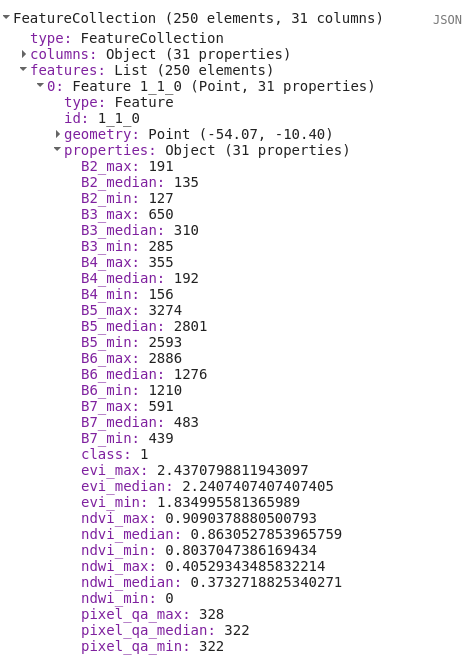
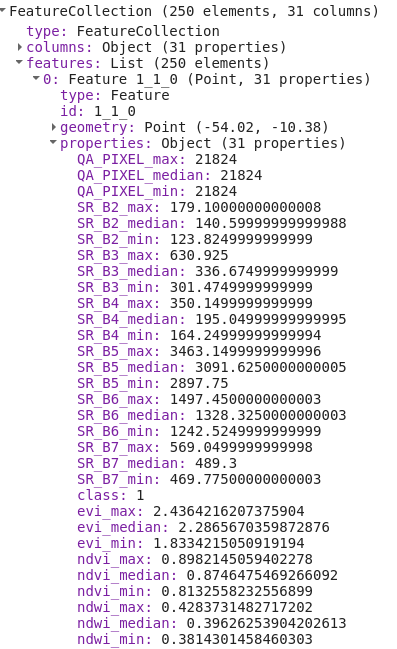
update Day 3

Changed region(s): [[0.0, 0.0, 0.9975, 1.0], [0.8766, 0.0924, 0.9068, 0.1233]]

diff --git a/MapBiomas_101/Day_3/classification.js b/MapBiomas_101/Day_3/classification.js
@@ -1,0 +1,130 @@
+// Image asset id
+var imageId = "users/joaovsiqueira1/mapbiomas-training/mosaic-2020";
+
+// Load as an image
+var mosaic = ee.Image(imageId);
+
+// prints the collection structure
+print('Mosaic:', mosaic);
+
+// Set the visualization parameters
+var visParams = {
+    bands: ['SR_B6_median', 'SR_B5_median', 'SR_B4_median'],
+    gain: [0.08, 0.06, 0.2]
+};
+
+// Add image to map
+Map.addLayer(mosaic, visParams, 'Mosaic');
+
+// Zoom into the image
+// Map.centerObject(mosaic, 10);
+
+// Create a function to collect random point inside the polygons
+var generatePoints = function (polygons, nPoints) {
+
+    // Generate N random points inside the polygons
+    var points = ee.FeatureCollection.randomPoints(polygons, nPoints);
+
+    // Get the class value propertie
+    var classValue = polygons.first().get('class');
+
+    // Iterate over points and assign the class value
+    points = points.map(
+        function (point) {
+            return point.set('class', classValue);
+        }
+    );
+
+    return points;
+};
+
+// Collect random points inside your polygons
+var vegetationPoints = generatePoints(vegetation, 100);
+
+var notVegetationPoints = generatePoints(notVegetation, 100);
+
+var waterPoints = generatePoints(water, 50);
+
+// Merge all samples into a featureCollection
+var samples = vegetationPoints.merge(notVegetationPoints).merge(waterPoints);
+
+print(samples);
+
+Map.addLayer(samples.filter(ee.Filter.eq('class', 1)), { color: '#005b2b' }, 'samples');
+Map.addLayer(samples.filter(ee.Filter.eq('class', 2)), { color: '#fff104' }, 'samples');
+Map.addLayer(samples.filter(ee.Filter.eq('class', 3)), { color: '#1488ff' }, 'samples');
+
+// Collect the spectral information to get the trained samples
+var trainedSamples = mosaic.reduceRegions({
+    'collection': samples,
+    'reducer': ee.Reducer.first(),
+    'scale': 30,
+});
+
+trainedSamples = trainedSamples.filter(ee.Filter.notNull(['SR_B2_max']));
+
+print(trainedSamples);
+
+// Set up the Random Forest classifier
+var classifier = ee.Classifier.smileRandomForest({
+    'numberOfTrees': 50
+});
+
+// Training the classifier
+classifier = classifier.train({
+    'features': trainedSamples,
+    'classProperty': 'class',
+    'inputProperties': [
+        'SR_B2_max',
+        'SR_B2_median',
+        'SR_B2_min',
+        'SR_B3_max',
+        'SR_B3_median',
+        'SR_B3_min',
+        'SR_B4_max',
+        'SR_B4_median',
+        'SR_B4_min',
+        'SR_B5_max',
+        'SR_B5_median',
+        'SR_B5_min',
+        'SR_B6_max',
+        'SR_B6_median',
+        'SR_B6_min',
+        'SR_B7_max',
+        'SR_B7_median',
+        'SR_B7_min',
+        'evi_max',
+        'evi_median',
+        'evi_min',
+        'ndvi_max',
+        'ndvi_median',
+        'ndvi_min',
+        'ndwi_max',
+        'ndwi_median',
+        'ndwi_min',
+    ]
+});
+
+// Run the Random Forest classifier
+var classification = mosaic.classify(classifier);
+
+// Add classification to map
+Map.addLayer(classification, {
+    'min': 0,
+    'max': 3,
+    'palette': ['#ffffff', '#005b2b', '#fff104', '#1488ff'],
+    'format': 'png'
+},
+    'classification'
+);
+
+// Export the classification to your asset
+Export.image.toAsset({
+    image: classification,
+    description: 'classification-2020',
+    assetId: 'classification-2020',
+    pyramidingPolicy: { '.default': 'mode' }, // use mode for classification data
+    region: classification.geometry(),
+    scale: 30,
+    maxPixels: 1e13
+});

diff --git a/MapBiomas_101/Day_2/creating-mosaic.js b/MapBiomas_101/Day_2/creating-mosaic.js
@@ -162,6 +162,8 @@ var maximum = collectionWithIndexes.reduce(ee.Reducer.max());
 // Merges the median, minimum and maximum mosaics
 var mosaic = median.addBands(minimum).addBands(maximum);
 
+print('Mosaic:', mosaic);
+
 // Sets a visualization parameter object to NDVI median
 var visNdvi = {
     bands: ['ndvi_median'],

diff --git a/MapBiomas_101/Day_3/README.md b/MapBiomas_101/Day_3/README.md
@@ -1,6 +1,6 @@
 <div class="fluid-row" id="header">
     <img src='../Assets/mapbiomas-icon.png' height='150' width='auto' align='right'>
-    <h1 class="title toc-ignore">MapBiomas 101</h1>
+    <h1 class="title toc-ignore">MapBiomas Training</h1>
     <h4 class="author"><em>Cesar Diniz, João Siqueira, Luiz Cortinhas, Luize Pinheiro and Tasso Azevedo</em></h4>
 </div>
 
@@ -28,7 +28,7 @@ Use `ee.Image()` function to load the image mosaic.
 
 ```javascript
 // Choose an image asset id
-var imageId = "users/joaovsiqueira1/mapbiomas-course/mosaic-2020";
+var imageId = "users/joaovsiqueira1/mapbiomas-training/mosaic-2020";
 
 // Load as an image
 var mosaic = ee.Image(imageId);
@@ -52,7 +52,7 @@ Map.addLayer(mosaic, visParams, 'Mosaic');
 Map.centerObject(mosaic, 9);
 ```
 ![load image](./Assets/load-image.png)
-[Link](https://code.earthengine.google.com/7d19adaf4f70922c855874abfad39728)
+[Link](https://code.earthengine.google.com/1c89a99b49c7de5c512de4ddaceee9cf)
 
 ## 2.2. Collect manual samples
 ### 2.2.1. Create a feature collection
@@ -66,7 +66,7 @@ The script is prepared to accept the names: `vegetation`,` notVegetation` and `w
 Sample collection results in a set of polygons similar to what we see in the next figure:
 
 ![samples](./Assets/samples.png)
-[Link](https://code.earthengine.google.com/94e5ffd94106e93646df7526bc25062e)
+[Link](https://code.earthengine.google.com/c3168af89c0dcab70885cf0a73674615)
 
 ## 2.3. Generate random points
 
@@ -112,9 +112,12 @@ var samples = vegetationPoints.merge(notVegetationPoints).merge(waterPoints);
 
 print(samples);
 
-Map.addLayer(samples, {color: 'red'}, 'samples');
+Map.addLayer(samples.filter(ee.Filter.eq('class', 1)), {color: '#005b2b'}, 'samples');
+Map.addLayer(samples.filter(ee.Filter.eq('class', 2)), {color: '#fff104'}, 'samples');
+Map.addLayer(samples.filter(ee.Filter.eq('class', 3)), {color: '#1488ff'}, 'samples');
 ```
 ![samples](./Assets/generate-random-points.png)
+[Link](https://code.earthengine.google.com/8bdf55ba47b8d538debb65897931ad34)
 
 ## 2.4. Collect the spectral information
 
@@ -128,7 +131,7 @@ var trainedSamples = mosaic.reduceRegions({
     'scale': 30,
   });
 
-trainedSamples = trainedSamples.filter(ee.Filter.notNull(['B2_max']));
+trainedSamples = trainedSamples.filter(ee.Filter.notNull(['SR_B2_max']));
 
 print(trainedSamples);
 ```
@@ -200,7 +203,6 @@ classifier = classifier.train({
     ]
     });
 ```
-[Link](https://code.earthengine.google.com/f90c938dd0a21e881490cbdd573da4c0)
 
 ## 2.6. Run the classifier
 
@@ -214,7 +216,7 @@ var classification = mosaic.classify(classifier);
 Map.addLayer(classification, {
         'min': 0,
         'max': 3,
-        'palette': ['ffffff,00aa00,ff0000,0000ff'],
+        'palette': ['#ffffff','#005b2b','#fff104','#1488ff'],,
         'format': 'png'
     },
     'classification'
@@ -222,7 +224,7 @@ Map.addLayer(classification, {
 ```
 
 ![samples](./Assets/classification.png)
-[Link](https://code.earthengine.google.com/69f685ee6b0426a5c27ac5007bc4670b)
+[Link](https://code.earthengine.google.com/3dba3901a9fe0b3142f8ab96dc525ba7)
 
 ## 2.7. Export classification to asset
 
@@ -239,6 +241,6 @@ Export.image.toAsset({
 });
 ```
 
-[Link](https://code.earthengine.google.com/f8d9de8e8b0af476c7eb6402746d8e63)
+[Link](https://code.earthengine.google.com/207e6bd17ea66726d081ed709c8687b2)
 
 [Previous: Day 2 - Accessing Satellite Images and Creating Mosaics](https://github.com/mapbiomas-brazil/mapbiomas-training/tree/main/MapBiomas_101/Day_2/README.md) | [Next: Day 4 - Spatial filter, Temporal Filter and Area Calculation](https://github.com/mapbiomas-brazil/mapbiomas-training/tree/main/MapBiomas_101/Day_4/README.md)

diff --git a/README.md b/README.md
@@ -1,5 +1,5 @@
 
 <div align="center">
-    <h1 style="background-color:black;color:white;font-size:36px;"><strong>MAPBIOMAS TRAINING SESSIONS</strong></h1>
+    <h1 style="font-size:36px;"><strong>MAPBIOMAS TRAINING SESSIONS</strong></h1>
     <img align="center" src="./MapBiomas_101/Assets/mapbiomas-icon.png"/>
 </div>

diff --git a/MapBiomas_101/Day_2/README.md b/MapBiomas_101/Day_2/README.md
@@ -242,7 +242,7 @@ Here we are going to show a simple way to remove clouds from Landsat images. Thi
  * @description
  *      Removes clouds and shadows using the pixel_qa band
  * @argument
- *      ee.Image with pixel_qa band
+ *      ee.Image with QA_PIXEL band
  * @returns
  *      ee.Image without clouds
  */
